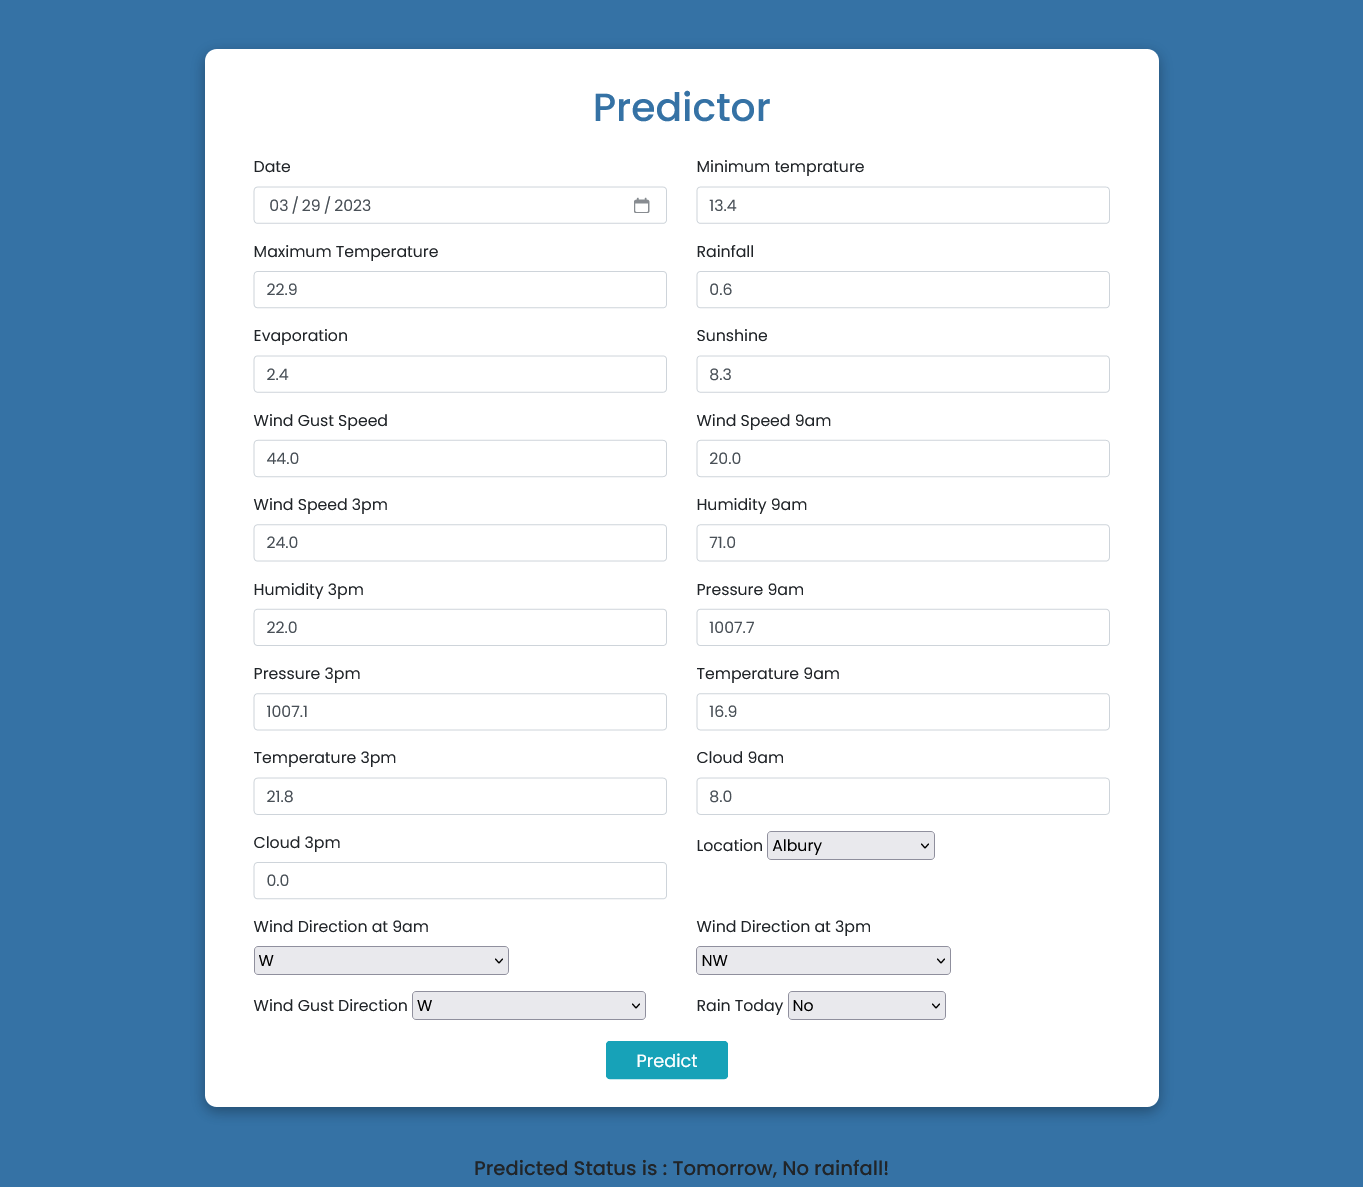
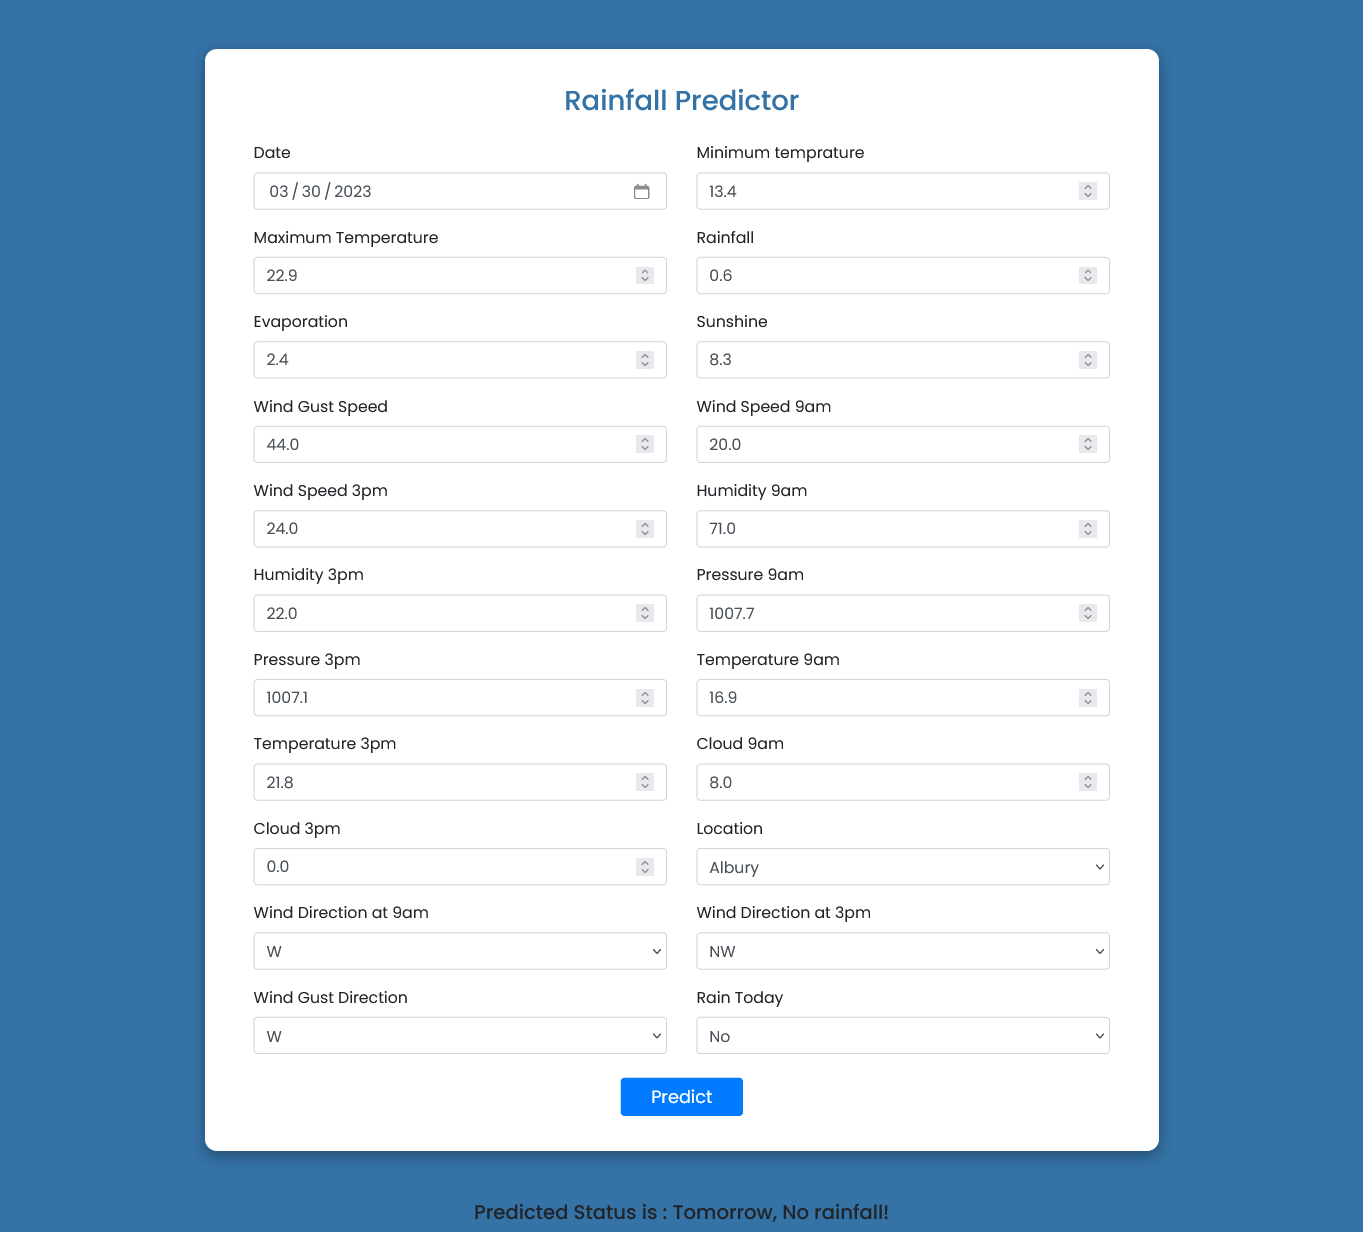
Replaced predictor.png, Updated predictor.html & readme.md files

Changed region(s): [[0.3997, 0.0622, 0.6457, 0.9336], [0.1845, 0.1245, 0.3382, 0.8713], [0.4612, 0.1556, 0.4919, 0.1867]]

diff --git a/templates/predictor.html b/templates/predictor.html
@@ -46,10 +46,13 @@
               <div class="md-form">
                 <label for="mintemp" class="mintemp"> Minimum temprature</label>
                 <input
-                  type="text"
+                  type="number"
                   class="form-control"
                   id="mintemp"
                   name="mintemp"
+                  min="-5.9"
+                  max="30.4"
+                  step="0.1"
                   required
                 />
               </div>
@@ -58,10 +61,13 @@
               <div class="md-form">
                 <label for="maxtemp" class="maxtemp">Maximum Temperature</label>
                 <input
-                  type="text"
+                  type="number"
                   class="form-control"
                   id="maxtemp"
                   name="maxtemp"
+                  min="2.7"
+                  max="43.5"
+                  step="0.1"
                   required
                 />
               </div>
@@ -70,10 +76,13 @@
               <div class="md-form">
                 <label for="rainfall" class="rainfall">Rainfall</label>
                 <input
-                  type="text"
+                  type="number"
                   class="form-control"
                   id="rainfall"
                   name="rainfall"
+                  min="0"
+                  max="1.5"
+                  step="0.1"
                   required
                 />
               </div>
@@ -82,10 +91,13 @@
               <div class="md-form">
                 <label for="evaporation" class="evaporation">Evaporation</label>
                 <input
-                  type="text"
+                  type="number"
                   class="form-control"
                   id="evaporation"
                   name="evaporation"
+                  min="2.2"
+                  max="7.0"
+                  step="0.1"
                   required
                 />
               </div>
@@ -94,10 +106,13 @@
               <div class="md-form">
                 <label for="sunshine" class="sunshine">Sunshine</label>
                 <input
-                  type="text"
+                  type="number"
                   class="form-control"
                   id="sunshine"
                   name="sunshine"
+                  min="7.4"
+                  max="9.4"
+                  step="0.1"
                   required
                 />
               </div>
@@ -108,10 +123,13 @@
                   >Wind Gust Speed</label
                 >
                 <input
-                  type="text"
+                  type="number"
                   class="form-control"
                   id="windgustspeed"
                   name="windgustspeed"
+                  min="8.5"
+                  max="68.5"
+                  step="0.5"
                   required
                 />
               </div>
@@ -122,10 +140,13 @@
                   >Wind Speed 9am</label
                 >
                 <input
-                  type="text"
+                  type="number"
                   class="form-control"
                   id="windspeed9am"
                   name="windspeed9am"
+                  min="0.0"
+                  max="37.0"
+                  step="1.0"
                   required
                 />
               </div>
@@ -136,10 +157,13 @@
                   >Wind Speed 3pm</label
                 >
                 <input
-                  type="text"
+                  type="number"
                   class="form-control"
                   id="windspeed3pm"
                   name="windspeed3pm"
+                  min="0.0"
+                  max="40.0"
+                  step="1.0"
                   required
                 />
               </div>
@@ -150,10 +174,13 @@
                   >Humidity 9am</label
                 >
                 <input
-                  type="text"
+                  type="number"
                   class="form-control"
                   id="humidity9am"
                   name="humidity9am"
+                  min="18.0"
+                  max="100.0"
+                  step="1.0"
                   required
                 />
               </div>
@@ -164,10 +191,13 @@
                   >Humidity 3pm</label
                 >
                 <input
-                  type="text"
+                  type="number"
                   class="form-control"
                   id="humidity3pm"
                   name="humidity3pm"
+                  min="0.0"
+                  max="100.0"
+                  step="1.0"
                   required
                 />
               </div>
@@ -178,10 +208,13 @@
                   >Pressure 9am</label
                 >
                 <input
-                  type="text"
+                  type="number"
                   class="form-control"
                   id="pressure9am"
                   name="pressure9am"
+                  min="1001.1"
+                  max="1034.2"
+                  step="0.1"
                   required
                 />
               </div>
@@ -192,10 +225,13 @@
                   >Pressure 3pm</label
                 >
                 <input
-                  type="text"
+                  type="number"
                   class="form-control"
                   id="pressure3pm"
                   name="pressure3pm"
+                  min="998.6"
+                  max="1031.8"
+                  step="0.1"
                   required
                 />
               </div>
@@ -205,10 +241,13 @@
               <div class="md-form">
                 <label for="temp9am" class="temp9am">Temperature 9am</label>
                 <input
-                  type="text"
+                  type="number"
                   class="form-control"
                   id="temp9am"
                   name="temp9am"
+                  min="-1.5"
+                  max="35.5"
+                  step="0.1"
                   required
                 />
               </div>
@@ -217,10 +256,13 @@
               <div class="md-form">
                 <label for="temp3pm" class="temp3pm">Temperature 3pm</label>
                 <input
-                  type="text"
+                  type="number"
                   class="form-control"
                   id="temp3pm"
                   name="temp3pm"
+                  min="2.4"
+                  max="40.5"
+                  step="0.1"
                   required
                 />
               </div>
@@ -229,10 +271,13 @@
               <div class="md-form">
                 <label for="cloud9am" class="cloud9am">Cloud 9am</label>
                 <input
-                  type="text"
+                  type="number"
                   class="form-control"
                   id="cloud9am"
                   name="cloud9am"
+                  min="0.0"
+                  max="9.0"
+                  step="1.0"
                   required
                 />
               </div>
@@ -241,10 +286,13 @@
               <div class="md-form">
                 <label for="cloud3pm" class="cloud3pm">Cloud 3pm</label>
                 <input
-                  type="text"
+                  type="number"
                   class="form-control"
                   id="cloud3pm"
                   name="cloud3pm"
+                  min="0.0"
+                  max="9.0"
+                  step="1.0"
                   required
                 />
               </div>

diff --git a/readme.md b/readme.md
@@ -2,7 +2,6 @@
 
 ![made-with-python](https://img.shields.io/badge/Made%20with-Python-0078D4.svg)
 ![html5](https://img.shields.io/badge/HTML5-E34F26?logo=html5&logoColor=white)
-![css3](https://img.shields.io/badge/CSS3-1572B6?logo=css3&logoColor=white)
 ![bootstarp](https://img.shields.io/badge/Bootstrap-563D7C?logo=bootstrap&logoColor=white)
 ![javascript](https://img.shields.io/badge/JavaScript-323330?logo=javascript&logoColor=F7DF1E)
 ![numpy](https://img.shields.io/badge/Numpy-777BB4?logo=numpy&logoColor=white)
